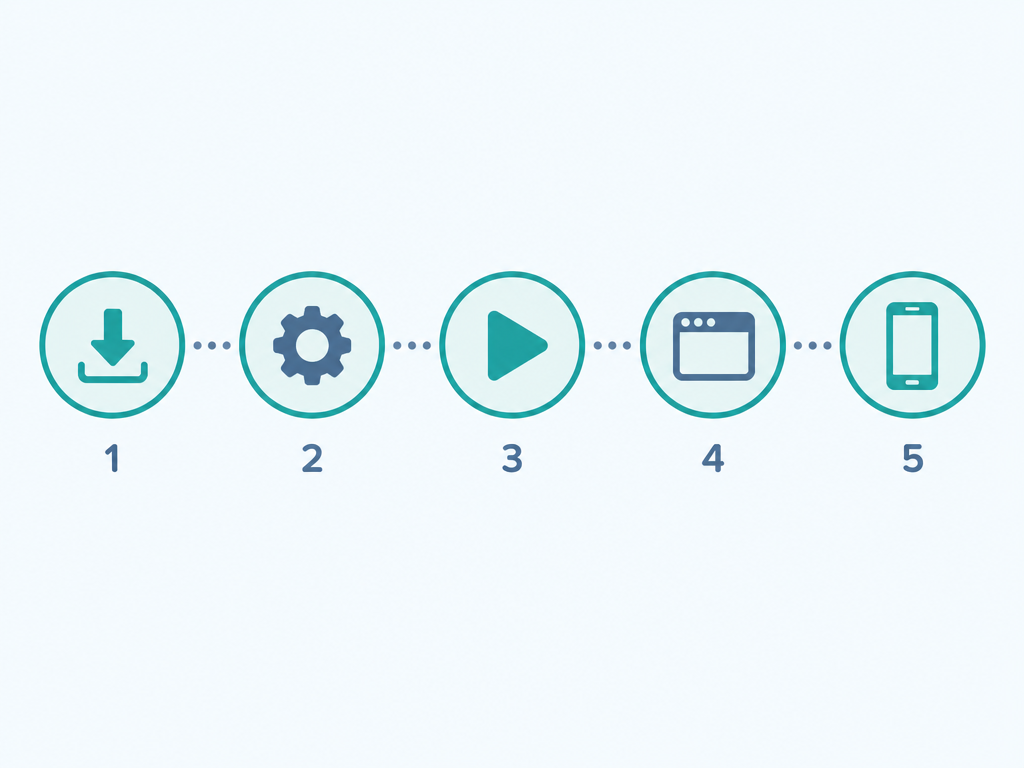
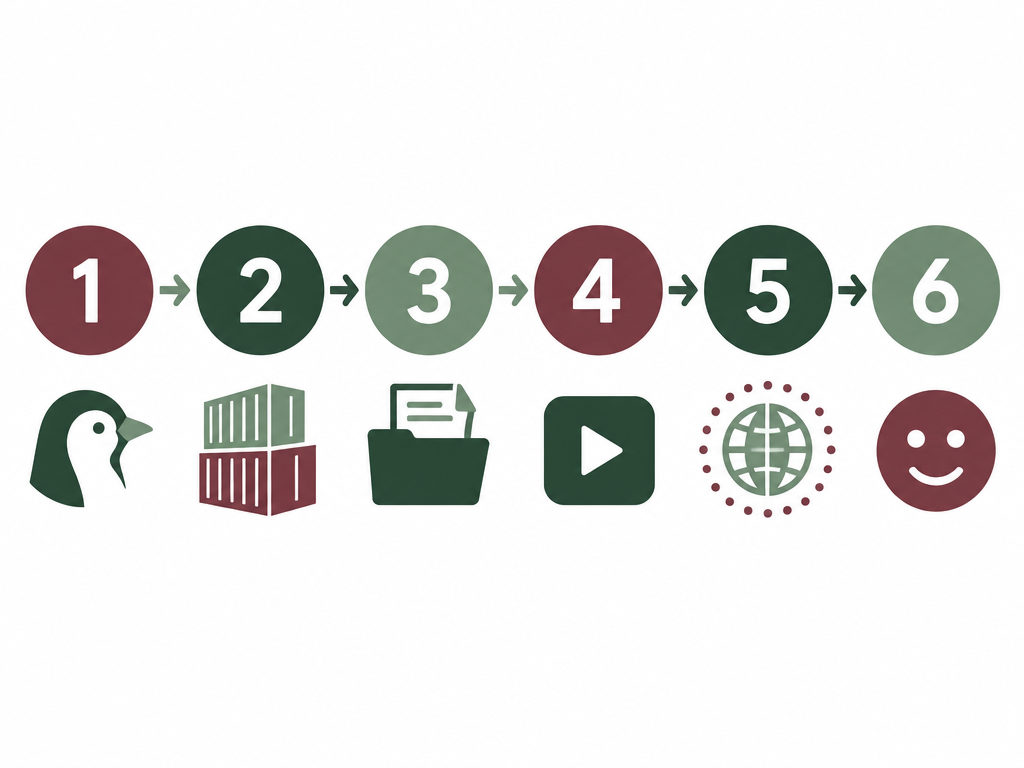
Getting Started: restructure into six steps (WSL/Linux, Docker, files, start, remote access, have fun)

Changed region(s): [[0.0, 0.2812, 1.0, 0.6875]]

diff --git a/getting-started.html b/getting-started.html
@@ -39,10 +39,10 @@
       <div class="detail-hero-inner">
         <div class="detail-hero-text">
           <h1>Get it running</h1>
-          <p>This is the whole setup, start to finish — set aside an afternoon. Six short steps: install Docker, grab Immich's files, point them at your storage, start it, create your account, then connect your phone. By tonight your photos can be backing up to a server you own. (Picked your hardware yet? Everything about <a href="requirements.html"><u>what to run</u></a> lives on the Requirements page.)</p>
+          <p>Six steps from an ordinary computer to your own photo cloud. We start by wiping it clean and putting Linux on it — that's the honest recommendation, and the one the rest of this guide assumes — then install Docker, drop in Immich's files, start it, and make it reachable from outside your house. (Still choosing a machine? Everything about <a href="requirements.html"><u>what to run</u></a> lives on the Requirements page.)</p>
         </div>
         <div class="detail-hero-media">
-          <img src="images/gs-01-step-flow.png" alt="Five numbered steps connected in a row: download, configure, start, open, connect a phone." />
+          <img src="images/gs-01-step-flow.png" alt="Six numbered steps in a row, each with an icon: Linux, containers, files, play, a globe, and a smiley face." />
         </div>
       </div>
     </section>
@@ -54,19 +54,31 @@
         <aside class="toc" aria-label="On this page">
           <p class="toc-title">Content</p>
           <ul>
-            <li><a href="#step1">1. Install Docker</a></li>
-            <li><a href="#step2">2. Download the files</a></li>
-            <li><a href="#step3">3. Set your storage</a></li>
-            <li><a href="#step4">4. Start it</a></li>
-            <li><a href="#step5">5. Make your account</a></li>
-            <li><a href="#step6">6. Connect your phone</a></li>
+            <li><a href="#step1">1. Install WSL or Linux</a></li>
+            <li><a href="#step2">2. Install Docker</a></li>
+            <li><a href="#step3">3. Downloading and configure the files</a></li>
+            <li><a href="#step4">4. Start it and log in</a></li>
+            <li><a href="#step5">5. Port-forward, reverse proxy or Tailscale</a></li>
+            <li><a href="#step6">6. Have fun!</a></li>
           </ul>
         </aside>
 
         <div class="content">
+
           <section id="step1">
-            <h2>Step 1 — Install Docker</h2>
-            <p>Immich runs inside containers, so Docker comes first. On most Linux machines, the official convenience script is one line:</p>
+            <h2>Step 1 — Install WSL or Linux</h2>
+            <p>Immich runs on Linux, so before anything else we need a Linux system. There are two ways to get one, and it's worth being honest about which is better.</p>
+            <p><strong>The recommended path: wipe the machine and install Linux.</strong> A system wipe is always a good idea when you're turning a computer into a server. You start from a clean slate instead of inheriting years of clutter, leftover apps and background processes — and, more importantly, <strong>Linux runs better</strong>. It has far less overhead, Docker runs natively on it, and it's exactly the environment Immich's own documentation is written for. For a machine that's going to sit there running 24/7, a fresh install of Ubuntu Server or Debian is the best foundation you can give it. Back up anything you care about first.</p>
+            <p><strong>The other path: WSL.</strong> If you'd rather not wipe — say it's your only computer, or you still need Windows day to day — then <strong>WSL is possible as well</strong>. WSL2 runs a real Linux kernel inside Windows, so Immich and Docker work on it perfectly well. The trade-offs are small but real: it's a layer running on top of Windows rather than the real thing, so it's a touch slower and heavier, and a few things — opening ports to the outside world, and starting automatically when the machine boots — need extra configuring. It works; it just takes more fiddling.</p>
+            <div class="callout">
+              <p><strong>Our advice:</strong> if the computer is going to be a dedicated server, wipe it and install Linux — it'll be simpler and faster from here on. If it has to stay a Windows machine, WSL2 is a perfectly good home for Immich.</p>
+            </div>
+            <p>Once Linux is up, note its IP address (run <code>ip a</code>, or check your router) — you'll need it in Step 4.</p>
+          </section>
+
+          <section id="step2">
+            <h2>Step 2 — Install Docker</h2>
+            <p>Immich runs inside containers, so Docker comes next. On Linux — and inside your WSL terminal, which behaves the same way — the official script is one line:</p>
             <pre><code>curl -fsSL https://get.docker.com | sh</code></pre>
             <figure class="figure">
               <img src="images/gs-02-containers.png" alt="A stack of container boxes running on top of a server." />
@@ -74,16 +86,12 @@
             </figure>
           </section>
 
-          <section id="step2">
-            <h2>Step 2 — Download Immich's two files</h2>
-            <p>Make a folder to keep everything tidy, then pull the setup files from Immich's latest release:</p>
+          <section id="step3">
+            <h2>Step 3 — Downloading and configure the files</h2>
+            <p>Make a folder to keep everything tidy, then pull Immich's setup files from its latest release:</p>
             <pre><code>mkdir immich-app &amp;&amp; cd immich-app
 wget -O docker-compose.yml https://github.com/immich-app/immich/releases/latest/download/docker-compose.yml
 wget -O .env https://github.com/immich-app/immich/releases/latest/download/example.env</code></pre>
-          </section>
-
-          <section id="step3">
-            <h2>Step 3 — Tell it where your photos live</h2>
             <p>Open the <code>.env</code> file and set three values:</p>
             <ul style="margin:0 0 20px 22px;">
               <li><strong>UPLOAD_LOCATION</strong> — the folder where your photos should be stored (point it at your big drive).</li>
@@ -94,29 +102,34 @@ wget -O .env https://github.com/immich-app/immich/releases/latest/download/examp
           </section>
 
           <section id="step4">
-            <h2>Step 4 — Start it</h2>
-            <p>From the same folder:</p>
+            <h2>Step 4 — Start it and log in</h2>
+            <p>From the same folder, bring it up:</p>
             <pre><code>docker compose up -d</code></pre>
-            <p>The first run downloads its images — give it a minute or two.</p>
+            <p>The first run downloads its images — give it a minute or two. Then open your browser and go to <code>http://YOUR-SERVER-IP:2283</code>, and create your admin account. That's your photo cloud, live.</p>
           </section>
 
           <section id="step5">
-            <h2>Step 5 — Open it and make your account</h2>
-            <p>In your browser, go to <code>http://YOUR-SERVER-IP:2283</code> and create your admin account. That's your photo cloud, live.</p>
-          </section>
-
-          <section id="step6">
-            <h2>Step 6 — Connect your phone</h2>
-            <p>Install the <strong>Immich</strong> app from the App Store or Play Store, enter your server's address, sign in, and turn on <strong>backup</strong>. Your camera roll starts uploading in the background.</p>
+            <h2>Step 5 — Port-forward, reverse proxy or Tailscale</h2>
+            <p>Right now Immich only answers on your own network — you can reach it from home, but not from anywhere else, and the phone app won't sync until you fix that. There are three ways to open it up, in rough order of how much work they take:</p>
+            <ul style="margin:0 0 20px 22px;">
+              <li><strong>Port forwarding</strong> — the quickest: tell your router to send a port straight to your server. Simple, but it exposes the server directly to the internet, so you really want HTTPS in front of it.</li>
+              <li><strong>Reverse proxy</strong> — the "proper" way: put a proxy such as Caddy or Nginx in front to handle HTTPS and a real domain name. More setup, but tidy and secure, and it plays nicely with other services later.</li>
+              <li><strong>Tailscale</strong> — the easiest and safest: install it on the server and on your phone and laptop, and they join one private network. Nothing is exposed to the internet and no ports are opened. For most people, this is the one to pick.</li>
+            </ul>
             <figure class="figure">
-              <img src="images/gs-03-connect-phone.png" alt="A phone logging in to a home server, with photos syncing back to the phone." />
-              <figcaption>Point the app at your server and switch on backup.</figcaption>
+              <img src="images/gs-03-remote-access.png" alt="A phone and a laptop connecting through dotted lines to a shielded home server inside a house." />
+              <figcaption>One of these three gets your server within reach — anywhere.</figcaption>
             </figure>
           </section>
 
-          <div class="callout">
-            <p><strong>Want to go deeper?</strong> This page is the short version on purpose. The full guide — every option, every setting, and troubleshooting — lives in the repo: <a href="https://github.com/immich-app/immich"><u>github.com/immich-app/immich</u></a> and the docs at <a href="https://immich.app/docs"><u>immich.app/docs</u></a>.</p>
-          </div>
+          <section id="step6">
+            <h2>Step 6 — Have fun!</h2>
+            <p>That's the hard part done. Install the <strong>Immich</strong> app on your phone, point it at your server, switch on <strong>backup</strong> — and then just go take some photos. They'll upload themselves in the background, and your library is yours from now on. If something does break, the docs and the community have seen it before, so it's rarely more than a search away.</p>
+            <div class="callout">
+              <p><strong>Want to go deeper?</strong> This page is the short version on purpose. The full guide — every option, every setting, and troubleshooting — lives in the repo: <a href="https://github.com/immich-app/immich"><u>github.com/immich-app/immich</u></a> and the docs at <a href="https://immich.app/docs"><u>immich.app/docs</u></a>.</p>
+            </div>
+          </section>
+
         </div>
 
       </div>
